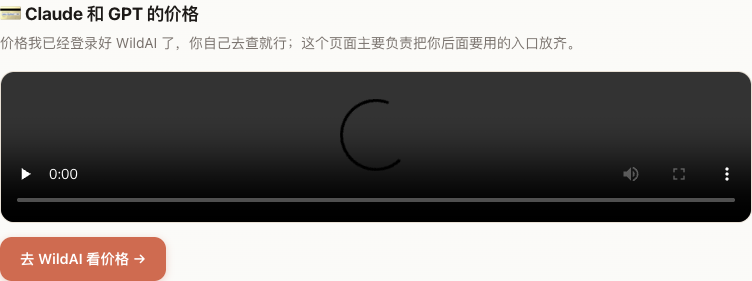
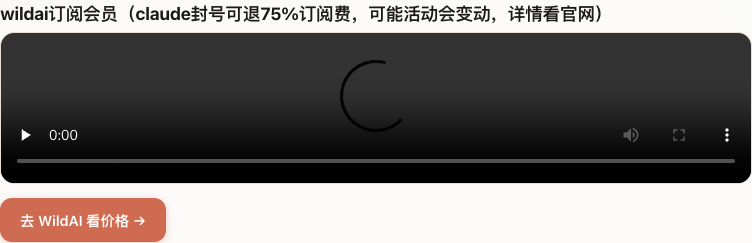
chore: save current Windows installer work

diff --git a/website/step3.html b/website/step3.html
@@ -21,6 +21,7 @@
       <a href="step1.html">网络配置</a>
       <a href="step2.html">下载安装</a>
       <a href="step3.html" class="active">会员订阅</a>
+      <a href="#giff-card">giff海外手机卡</a>
       <a href="faq.html">FAQ</a>
     </div>
     <button class="nav-toggle" aria-label="菜单">
@@ -47,6 +48,11 @@
         <div class="prog-num">3</div>
         <span>会员订阅</span>
       </div>
+      <div class="prog-line"></div>
+      <div class="prog-step">
+        <div class="prog-num">4</div>
+        <span>接码giff卡</span>
+      </div>
     </div>
   </div>
 </div>
@@ -64,13 +70,83 @@
   <div class="container" style="max-width:800px;">
     <!-- 订阅 Claude Pro -->
     <div style="margin-top:16px;">
-      <h2 style="font-size:1.1rem; font-weight:700; letter-spacing:-0.01em; margin-bottom:4px;">💳 Claude 和 GPT 的价格</h2>
-      <p style="color:var(--text-secondary); font-size:0.875rem; margin-bottom:16px;">
-        价格我已经登录好 WildAI 了，你自己去查就行；这个页面主要负责把你后面要用的入口放齐。
-      </p>
+      <h2 style="font-size:1.1rem; font-weight:700; letter-spacing:-0.01em; margin-bottom:4px;">wildai订阅会员（claude封号可退75%订阅费，可能活动会变动，详情看官网）</h2>
       <video preload="none" src="https://media.zuibenniuge.cc.cd/wildAI充值视频.mp4" controls style="width:100%; border-radius:var(--radius); border:1px solid var(--border); display:block;"></video>
       <div style="margin-top:14px; display:flex; gap:10px; flex-wrap:wrap;">
         <a href="https://bewild.ai?code=6XSWDDEI" class="btn btn-primary" target="_blank" rel="noopener">去 WildAI 看价格 →</a>
+      </div>
+    </div>
+
+    <div style="margin-top:36px;">
+      <h2 style="font-size:1.1rem; font-weight:700; letter-spacing:-0.01em; margin-bottom:4px;">📱 申请招行卡订阅会员</h2>
+      <p style="color:var(--text-secondary); font-size:0.875rem; margin-bottom:16px;">这个视频对应申请招行卡订阅会员，照着操作就行。</p>
+      <video preload="none" src="https://pub-6f98ebdda2dd4688b2e317ccfcaebb21.r2.dev/zhaohang-card-subscription.mp4" controls style="width:100%; border-radius:var(--radius); border:1px solid var(--border); display:block;"></video>
+      <div class="resource-table" style="margin-top:18px;">
+        <div class="resource-table-head">用到的链接</div>
+        <table>
+          <tbody>
+            <tr>
+              <td>ChatGPT 官网（注册 / 网页端订阅）</td>
+              <td><a href="https://chatgpt.com" target="_blank" rel="noopener">https://chatgpt.com</a></td>
+            </tr>
+            <tr>
+              <td>Google 付款中心（电脑端设地址、加卡）</td>
+              <td><a href="https://payments.google.com" target="_blank" rel="noopener">https://payments.google.com</a></td>
+            </tr>
+            <tr>
+              <td>上期 · 海外手机号 giffgaff</td>
+              <td><a href="https://www.youtube.com/watch?v=JGGODziqQnc" target="_blank" rel="noopener">https://www.youtube.com/watch?v=JGGODziqQnc</a></td>
+            </tr>
+            <tr>
+              <td>美国免税州地址生成器</td>
+              <td><a href="https://usaddressgen.com/tax-free-address/" target="_blank" rel="noopener">https://usaddressgen.com/tax-free-address/</a></td>
+            </tr>
+            <tr>
+              <td>wildAI 订阅入口</td>
+              <td><a href="https://bewild.ai?code=6XSWDDEI" target="_blank" rel="noopener">https://bewild.ai?code=6XSWDDEI</a></td>
+            </tr>
+          </tbody>
+        </table>
+      </div>
+    </div>
+
+    <div id="giff-card" style="margin-top:36px;">
+      <h2 style="font-size:1.1rem; font-weight:700; letter-spacing:-0.01em; margin-bottom:4px;">📱 海外手机号码接码 giff卡申请流程</h2>
+      <p style="color:var(--text-secondary); font-size:0.875rem; margin-bottom:16px;">这部分是海外手机号码接码 giff 卡申请流程，按视频和表格一步步来。</p>
+      <div class="video-wrap">
+        <video
+          src="https://pub-6f98ebdda2dd4688b2e317ccfcaebb21.r2.dev/giff-sms.mp4"
+          controls
+          preload="none"
+          style="width:100%; display:block; background:#000;"
+        ></video>
+      </div>
+      <div class="resource-table">
+        <div class="resource-table-head">用到的链接</div>
+        <table>
+          <tbody>
+            <tr>
+              <td>giffgaff 官网（认准这个，别上 giffgaff-china.com）</td>
+              <td><a href="https://www.giffgaff.com/" target="_blank" rel="noopener">https://www.giffgaff.com/</a></td>
+            </tr>
+            <tr>
+              <td>EasyEUICC / OpenEUICC（写卡软件）</td>
+              <td><a href="https://gitea.angry.im/PeterCxy/OpenEUICC/releases" target="_blank" rel="noopener">https://gitea.angry.im/PeterCxy/OpenEUICC/releases</a></td>
+            </tr>
+            <tr>
+              <td>giffgaff 社区修改版 apk 教程</td>
+              <td><a href="https://simonmy.com/posts/giffgaff-esim-mod-apk.html" target="_blank" rel="noopener">https://simonmy.com/posts/giffgaff-esim-mod-apk.html</a></td>
+            </tr>
+            <tr>
+              <td>giffgaff 社区修改版 apk（可直接下载）</td>
+              <td><a href="https://drive.google.com/file/d/1hDWqDRxX1UfMGjV-7JjG7djpCZ0YIDO_/view?usp=sharing" target="_blank" rel="noopener">https://drive.google.com/file/d/1hDWqDRxX1UfMGjV-7JjG7djpCZ0YIDO_/view?usp=sharing</a></td>
+            </tr>
+            <tr>
+              <td>二维码生成（把 eSIM 识别码转成二维码扫卡写入）</td>
+              <td><a href="https://qrcode.show/" target="_blank" rel="noopener">https://qrcode.show/</a></td>
+            </tr>
+          </tbody>
+        </table>
       </div>
     </div>
 

diff --git a/tests/site.spec.js b/tests/site.spec.js
@@ -66,8 +66,10 @@ const PAGES = [
     file: 'step3.html',
     title: '步骤三：会员订阅',
     content: [
-      'Claude 和 GPT 的价格',
+      'wildai订阅会员',
       '去 WildAI 看价格',
+      '这个视频对应申请招行卡订阅会员',
+      '海外手机号码接码 giff卡申请流程',
     ],
     shot: 'main .container > div:first-of-type',
   },
@@ -108,6 +110,7 @@ async function openAndCollectProblems(page, file) {
     problems.push(`pageerror:${err.message}`);
   });
   page.on('requestfailed', (request) => {
+    if (request.url().includes('youtube.com/api/stats/')) return;
     const failure = request.failure();
     problems.push(`requestfailed:${request.method()} ${request.url()} ${failure?.errorText || 'unknown'}`);
   });

diff --git a/website/step1-mobile.html b/website/step1-mobile.html
@@ -70,7 +70,7 @@
 
         <form class="entry-form codex-email-form" data-codex-email-form>
           <div class="entry-field">
-            <label for="codex-email">常用邮箱地址</label>
+            <label for="codex-email">填写登录Codex的邮箱</label>
             <input id="codex-email" class="entry-input" type="email" placeholder="例如：[email redacted]" autocomplete="email" data-codex-email-input>
           </div>
           <button type="submit" class="btn btn-primary">提交邮箱</button>

diff --git a/handoff/WINDOWS_ONECLICK_FLOW.md b/handoff/WINDOWS_ONECLICK_FLOW.md
@@ -41,6 +41,7 @@ Entry points:
 START-HERE.cmd
 START-ONECLICK.cmd
 一键安装-Codex-Claude-Code.cmd
+v2rayN-急救修复.cmd
 EMERGENCY-PROXY-RESET.cmd
 紧急恢复网络-关闭Windows代理.cmd
 ```